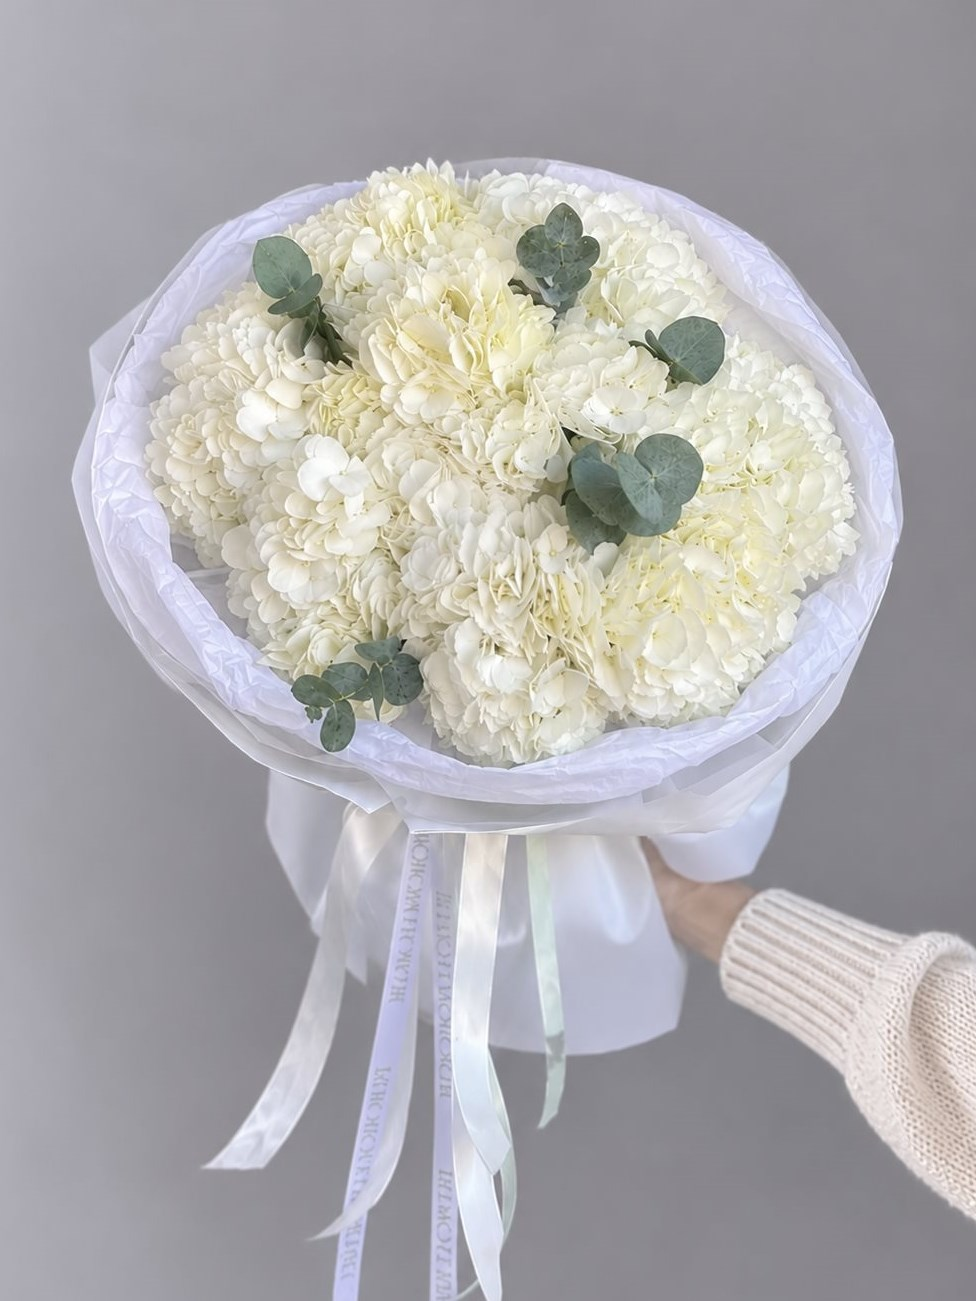
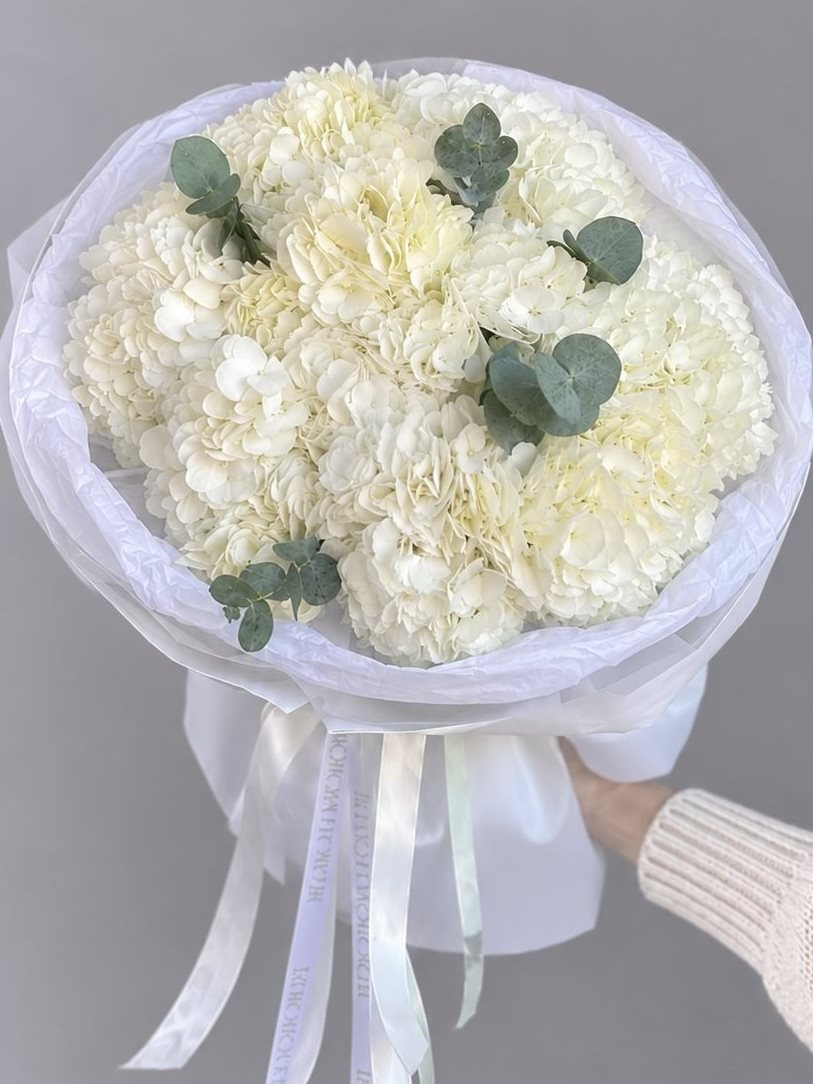
Видалено 14 букетів без фото та зі старими фото, оновлено галерею «Про нас» і тести
Збільшено фото M у White Hydrangea.

diff --git a/src/app/core/data/products.ts b/src/app/core/data/products.ts
@@ -8,27 +8,6 @@ import { Product } from '../models/product.model';
  */
 export const PRODUCTS: Product[] = [
   {
-    id: 'pink-dream',
-    name: 'Pink Dream',
-    category: 'bouquets',
-    price: 1450,
-    stems: 15,
-    colors: ['pink', 'white'],
-    occasions: ['birthday', 'date'],
-    short: 'Ніжні рожеві троянди з півоніями та евкаліптом',
-    description:
-      'Легка повітряна композиція в пудрових відтінках. Рожеві троянди поєднуються з кущовими півоніями, а гілочки евкаліпта додають свіжості та аромату.',
-    composition: ['Троянда рожева — 7 шт.', 'Півонія — 3 шт.', 'Троянда біла — 2 шт.', 'Евкаліпт — 3 гілки'],
-    badge: 'hit',
-    popularity: 98,
-    addedAt: '2026-03-02',
-    art: {
-      stems: stems(['eucalyptus', PETAL.green, 3], ['rose', PETAL.pink, 7], ['peony', PETAL.blush, 3], ['rose', PETAL.white, 2]),
-      wrap: '#F3E6D3',
-      ribbon: '#D99AA8',
-    },
-  },
-  {
     id: 'white-tulips',
     name: 'White Tulips',
     category: 'tulips',
@@ -115,26 +94,6 @@ export const PRODUCTS: Product[] = [
       ribbon: '#873F55',
     },
   },
-  {
-    id: 'bridal-white',
-    name: 'Bridal White',
-    category: 'bouquets',
-    price: 2800,
-    stems: 31,
-    colors: ['white'],
-    occasions: ['wedding'],
-    short: 'Весільний букет із білих троянд і півоній',
-    description:
-      'Елегантний букет нареченої в білій гамі. Збираємо вручну в день церемонії, щоб квіти були максимально свіжими.',
-    composition: ['Троянда біла — 15 шт.', 'Півонія біла — 7 шт.', 'Ромашка — 6 шт.', 'Евкаліпт — 3 гілки'],
-    popularity: 74,
-    addedAt: '2026-04-28',
-    art: {
-      stems: stems(['eucalyptus', PETAL.green, 3], ['rose', PETAL.white, 9], ['peony', '#FFF6F0', 4], ['daisy', PETAL.white, 4]),
-      wrap: '#FFFFFF',
-      ribbon: '#F3E6D3',
-    },
-  },
 
   {
     id: 'tulip-rainbow',
@@ -217,46 +176,9 @@ export const PRODUCTS: Product[] = [
       ribbon: '#FFFFFF',
     },
   },
-  {
-    id: 'golden-hour',
-    name: 'Golden Hour',
-    category: 'bouquets',
-    price: 1600,
-    stems: 21,
-    colors: ['yellow', 'peach'],
-    occasions: ['birthday', 'thanks'],
-    short: 'Теплі відтінки заходу сонця',
-    description:
-      'Персикові троянди, жовті тюльпани та ромашки — букет, наповнений світлом «золотої години».',
-    composition: ['Троянда персикова — 7 шт.', 'Тюльпан жовтий — 7 шт.', 'Ромашка — 7 шт.'],
-    popularity: 79,
-    addedAt: '2026-04-15',
-    art: {
-      stems: stems(['eucalyptus', PETAL.green, 2], ['rose', PETAL.peach, 6], ['tulip', PETAL.yellow, 5], ['daisy', PETAL.white, 4]),
-      wrap: '#C9A27A',
-      ribbon: '#F3E6D3',
-    },
-  },
 
 
   // Букети з фотографіями (public/flowers/<id>.jpg)
-  {
-    id: 'cherry-blossom',
-    name: 'Cherry Blossom',
-    category: 'bouquets',
-    price: 2650,
-    stems: 35,
-    colors: ['red', 'pink'],
-    occasions: ['date', 'birthday'],
-    short: 'Червоні троянди й рожеві півонії у два тони пакування',
-    description:
-      'Пишний букет, у якому червоні троянди оточені ніжно-рожевими півоніями та гіпсофілою. Рожево-червоне пакування й листівка роблять його готовим подарунком.',
-    composition: ['Троянда червона — 15 шт.', 'Півонія рожева — 15 шт.', 'Гіпсофіла', 'Евкаліпт', 'Пакування рожеве, стрічка червона'],
-    popularity: 86,
-    addedAt: '2026-06-20',
-    image: 'flowers/cherry-blossom.jpg',
-    art: { stems: stems(['eucalyptus', PETAL.green, 2], ['rose', PETAL.red, 8], ['peony', PETAL.pink, 7]), wrap: '#F2C9D1', ribbon: '#C23B4E' },
-  },
   {
     id: 'ivory-blush',
     name: 'Ivory Blush',
@@ -273,40 +195,6 @@ export const PRODUCTS: Product[] = [
     addedAt: '2026-06-18',
     image: 'flowers/ivory-blush.jpg',
     art: { stems: stems(['eucalyptus', PETAL.green, 3], ['rose', PETAL.white, 9], ['daisy', '#FFF6F0', 4]), wrap: '#FFFFFF', ribbon: '#F3E6D3' },
-  },
-  {
-    id: 'purple-rain',
-    name: 'Purple Rain',
-    category: 'bouquets',
-    price: 1950,
-    stems: 21,
-    colors: ['purple', 'white'],
-    occasions: ['birthday', 'thanks'],
-    short: 'Бузкові й білі еустоми в бузковому пакуванні',
-    description:
-      'Букет з оксамитових еустом у фіолетових і білих тонах. Еустоми довго стоять у вазі й красиво розкриваються.',
-    composition: ['Еустома бузкова — 11 шт.', 'Еустома біла — 8 шт.', 'Зелень', 'Пакування бузкове, стрічка бузкова'],
-    popularity: 77,
-    addedAt: '2026-06-16',
-    image: 'flowers/purple-rain.jpg',
-    art: { stems: stems(['rose', PETAL.lilac, 8], ['rose', PETAL.white, 5], ['lavender', PETAL.lavender, 3]), wrap: '#9C83CC', ribbon: '#B9A2D8' },
-  },
-  {
-    id: 'summer-bloom',
-    name: 'Summer Bloom',
-    category: 'bouquets',
-    price: 1850,
-    stems: 21,
-    colors: ['yellow', 'white'],
-    occasions: ['birthday', 'thanks'],
-    short: 'Соняшники, гіпсофіла й польова зелень',
-    description:
-      'Літній букет із соняшників, хмаринки гіпсофіли та польової зелені. Додаємо листівку з побажанням.',
-    composition: ['Соняшник — 5 шт.', 'Гіпсофіла', 'Польова зелень', 'Евкаліпт', 'Пакування кремове, стрічка жовта'],
-    popularity: 75,
-    addedAt: '2026-06-14',
-    image: 'flowers/summer-bloom.jpg',
-    art: { stems: stems(['eucalyptus', PETAL.green, 3], ['daisy', PETAL.yellow, 6], ['daisy', PETAL.white, 6]), wrap: '#F3E6D3', ribbon: '#F4CF62' },
   },
   {
     id: 'blue-mist',
@@ -343,23 +231,6 @@ export const PRODUCTS: Product[] = [
     art: { stems: stems(['eucalyptus', PETAL.green, 2], ['rose', PETAL.peach, 7], ['rose', PETAL.pink, 4]), wrap: '#F3E6D3', ribbon: '#D99AA8' },
   },
   {
-    id: 'powder-pink',
-    name: 'Powder Pink',
-    category: 'bouquets',
-    price: 2500,
-    stems: 41,
-    colors: ['pink', 'white'],
-    occasions: ['birthday', 'thanks'],
-    short: 'Рожеві троянди й пудрові хризантеми',
-    description:
-      'Щільний круглий букет із рожевих троянд і білих хризантем із рожевим відтінком. Довго тримає форму.',
-    composition: ['Троянда рожева — 21 шт.', 'Хризантема біло-рожева — 20 шт.', 'Пакування біле, стрічка рожева'],
-    popularity: 78,
-    addedAt: '2026-06-08',
-    image: 'flowers/powder-pink.jpg',
-    art: { stems: stems(['rose', PETAL.pink, 8], ['daisy', PETAL.blush, 6], ['peony', PETAL.blush, 4]), wrap: '#FFFFFF', ribbon: '#D99AA8' },
-  },
-  {
     id: 'rose-garden',
     name: 'Rose Garden',
     category: 'bouquets',
@@ -392,118 +263,6 @@ export const PRODUCTS: Product[] = [
     addedAt: '2026-06-04',
     image: 'flowers/love-letter.jpg',
     art: { stems: stems(['eucalyptus', PETAL.green, 2], ['rose', PETAL.red, 8], ['rose', PETAL.pink, 6]), wrap: '#F2C9D1', ribbon: '#7E2A3E' },
-  },
-  {
-    id: 'snow-tulips',
-    name: 'Snow Tulips',
-    category: 'bouquets',
-    price: 1350,
-    stems: 35,
-    colors: ['white'],
-    occasions: ['thanks', 'birthday'],
-    short: 'Білі тюльпани, зв’язані атласною стрічкою',
-    description: 'Великий букет білих тюльпанів на довгому стеблі, зв’язаний білою стрічкою без пакування.',
-    composition: ['Тюльпан білий — 35 шт.', 'Стрічка біла'],
-    popularity: 74,
-    addedAt: '2026-05-28',
-    image: 'flowers/snow-tulips.jpg',
-    art: { stems: stems(['tulip', PETAL.white, 14]), wrap: '#FFFFFF', ribbon: '#FFFFFF' },
-  },
-  {
-    id: 'tulip-cloud',
-    name: 'Tulip Cloud',
-    category: 'bouquets',
-    price: 1250,
-    stems: 25,
-    colors: ['white'],
-    occasions: ['thanks', 'birthday'],
-    short: 'Білі тюльпани в білому пакуванні',
-    description: 'Білі тюльпани в м’якому білому пакуванні. Мінімалістичний букет для тих, хто любить чисті лінії.',
-    composition: ['Тюльпан білий — 25 шт.', 'Пакування біле', 'Стрічка біла'],
-    popularity: 72,
-    addedAt: '2026-05-26',
-    image: 'flowers/tulip-cloud.jpg',
-    art: { stems: stems(['tulip', PETAL.white, 13]), wrap: '#FFFFFF', ribbon: '#FFFFFF' },
-  },
-  {
-    id: 'pink-tulips-classic',
-    name: 'Pink Tulips Classic',
-    category: 'bouquets',
-    price: 1450,
-    stems: 35,
-    colors: ['pink'],
-    occasions: ['birthday', 'thanks'],
-    short: 'Рожеві тюльпани, зв’язані рожевою стрічкою',
-    description: 'Класичний букет рожевих тюльпанів на довгому стеблі, зв’язаний пудровою стрічкою без пакування.',
-    composition: ['Тюльпан рожевий — 35 шт.', 'Стрічка рожева'],
-    popularity: 83,
-    addedAt: '2026-05-24',
-    art: { stems: stems(['tulip', PETAL.pink, 14]), wrap: '#FFFFFF', ribbon: '#D99AA8' },
-  },
-  {
-    id: 'pink-tulips-in-pink',
-    name: 'Pink Tulips in Pink',
-    category: 'bouquets',
-    price: 1150,
-    stems: 25,
-    colors: ['pink'],
-    occasions: ['birthday', 'thanks'],
-    short: 'Рожеві тюльпани в рожевому пакуванні',
-    description: 'Яскраві тюльпани в тон до насиченого рожевого пакування з пишною стрічкою.',
-    composition: ['Тюльпан рожевий — 25 шт.', 'Пакування рожеве', 'Стрічка рожева'],
-    popularity: 82,
-    addedAt: '2026-05-22',
-    image: 'flowers/pink-tulips-in-pink.jpg',
-    art: { stems: stems(['tulip', PETAL.pink, 14]), wrap: '#F2A7B8', ribbon: '#D99AA8' },
-  },
-  {
-    id: 'pink-tulips-mini',
-    name: 'Pink Tulips Mini',
-    category: 'bouquets',
-    price: 790,
-    stems: 15,
-    colors: ['pink'],
-    occasions: ['thanks', 'birthday'],
-    short: 'Невеликий букет рожевих тюльпанів у білому пакуванні',
-    description: 'Компактний букет рожевих тюльпанів у прозоро-білому пакуванні з рожевою стрічкою.',
-    composition: ['Тюльпан рожевий — 15 шт.', 'Пакування біле', 'Стрічка рожева'],
-    popularity: 71,
-    addedAt: '2026-05-20',
-    image: 'flowers/pink-tulips-mini.jpg',
-    art: { stems: stems(['tulip', PETAL.pink, 9]), wrap: '#FFFFFF', ribbon: '#D99AA8' },
-  },
-  {
-    id: 'pink-tulips-grand',
-    name: 'Pink Tulips Grand',
-    category: 'bouquets',
-    price: 1950,
-    stems: 51,
-    colors: ['pink'],
-    occasions: ['birthday', 'wedding'],
-    short: 'Великий букет рожевих тюльпанів у кремово-рожевому пакуванні',
-    description: 'Пишний букет із понад пів сотні рожевих тюльпанів у подвійному пакуванні: біле й ніжно-рожеве.',
-    composition: ['Тюльпан рожевий — 51 шт.', 'Пакування рожево-біле'],
-    popularity: 84,
-    addedAt: '2026-05-18',
-    image: 'flowers/pink-tulips-grand.jpg',
-    art: { stems: stems(['tulip', PETAL.pink, 16]), wrap: '#F2C9D1', ribbon: null },
-  },
-  {
-    id: 'soft-meadow',
-    name: 'Soft Meadow',
-    category: 'bouquets',
-    price: 2400,
-    stems: 31,
-    colors: ['pink', 'peach', 'white'],
-    occasions: ['birthday', 'thanks'],
-    short: 'Пастельні троянди з польовими квітами в крафтовому пакуванні',
-    description:
-      'Повітряний букет із персиково-рожевих троянд, ромашок і дрібних польових квітів. Крафтове пакування, пудрова стрічка та листівка.',
-    composition: ['Троянда персикова й рожева — 11 шт.', 'Ромашка — 7 шт.', 'Польові квіти', 'Пакування крафт, стрічка пудрова', 'Листівка'],
-    popularity: 77,
-    addedAt: '2026-07-02',
-    image: 'flowers/soft-meadow.jpg',
-    art: { stems: stems(['eucalyptus', PETAL.green, 2], ['rose', PETAL.peach, 5], ['rose', PETAL.pink, 4], ['daisy', PETAL.white, 4]), wrap: '#C9A27A', ribbon: '#D99AA8' },
   },
   {
     id: 'hydrangea-blush',

diff --git a/src/app/core/catalog-query.spec.ts b/src/app/core/catalog-query.spec.ts
@@ -14,8 +14,8 @@ describe('catalog-query', () => {
     });
 
     it('шукає за назвою без урахування регістру', () => {
-      const result = filterProducts(PRODUCTS, { ...EMPTY_FILTERS, query: 'pink DREAM' });
-      expect(result.map((p) => p.id)).toEqual(['pink-dream']);
+      const result = filterProducts(PRODUCTS, { ...EMPTY_FILTERS, query: 'classic RED' });
+      expect(result.map((p) => p.id)).toEqual(['classic-red']);
     });
 
     it('шукає за складом букета', () => {
@@ -80,7 +80,7 @@ describe('catalog-query', () => {
     });
 
     it('за популярністю першим іде найпопулярніший', () => {
-      expect(sortProducts(PRODUCTS, 'popular')[0].id).toBe('pink-dream');
+      expect(sortProducts(PRODUCTS, 'popular')[0].id).toBe('classic-red');
     });
 
     it('не змінює вихідний масив', () => {

diff --git a/src/app/pages/about/about.ts b/src/app/pages/about/about.ts
@@ -225,7 +225,7 @@ export class About {
   private readonly products = inject(ProductService);
 
   protected readonly artA = this.products.getById('peony-pink')!.art;
-  protected readonly gallery = ['bridal-white', 'blush-garden', 'sunny-morning', 'golden-hour'].map(
+  protected readonly gallery = ['ivory-blush', 'blush-garden', 'sunny-morning', 'peony-white'].map(
     (id) => this.products.getById(id)!.art,
   );
 

diff --git a/public/flowers/README.md b/public/flowers/README.md
@@ -4,13 +4,9 @@
 
 | Файл | Товар | Що на фото |
 |---|---|---|
-| `cherry-blossom.jpg` | Cherry Blossom | червоні троянди й рожеві півонії, рожеве пакування |
 | `ivory-blush.jpg` | Ivory Blush | білі троянди, кремові еустоми, евкаліпт |
-| `purple-rain.jpg` | Purple Rain | бузкові й білі еустоми, бузкове пакування |
-| `summer-bloom.jpg` | Summer Bloom | соняшники, гіпсофіла, польова зелень |
 | `blue-mist.jpg` | Blue Mist | білі троянди, блакитна гортензія |
 | `peach-whisper.jpg` | Peach Whisper | персикові троянди, сухоцвіти, кремове пакування |
-| `powder-pink.jpg` | Powder Pink | рожеві троянди й хризантеми |
 | `rose-garden.jpg` | Rose Garden | рожеві кущові троянди з білими квітами |
 | `spray-peach.jpg` (+ `-s`, `-l`) | Spray Peach | персиково-рожеві кущові троянди, м’ятне пакування |
 | `spray-fuchsia.jpg` (+ `-s`, `-l`) | Spray Fuchsia | малинові кущові троянди, рожеве пакування |
@@ -25,12 +21,6 @@
 | `pink-duo.jpg` | Pink Duo | рожеві й кущові троянди, біле пакування |
 | `roses.jpg`, `hydrangeas.jpg` | плитки категорій на головній | копії фото Classic Red і Pink Hydrangea |
 | `love-letter.jpg` | Love Letter | червоні й рожеві троянди з гіпсофілою |
-| `snow-tulips.jpg` | Snow Tulips | білі тюльпани, без пакування |
-| `tulip-cloud.jpg` | Tulip Cloud | білі тюльпани в білому пакуванні |
-| `pink-tulips-classic.jpg` | Pink Tulips Classic | рожеві тюльпани зі стрічкою, без пакування |
-| `pink-tulips-in-pink.jpg` | Pink Tulips in Pink | рожеві тюльпани в рожевому пакуванні |
-| `pink-tulips-mini.jpg` | Pink Tulips Mini | невеликий букет рожевих тюльпанів |
-| `pink-tulips-grand.jpg` | Pink Tulips Grand | великий букет рожевих тюльпанів |
 | `hero.jpg` | банер головної | квіти у вазі (Pexels) |
 | `ref-*.jpg` | поки не використовуються | референси стилю |
 
